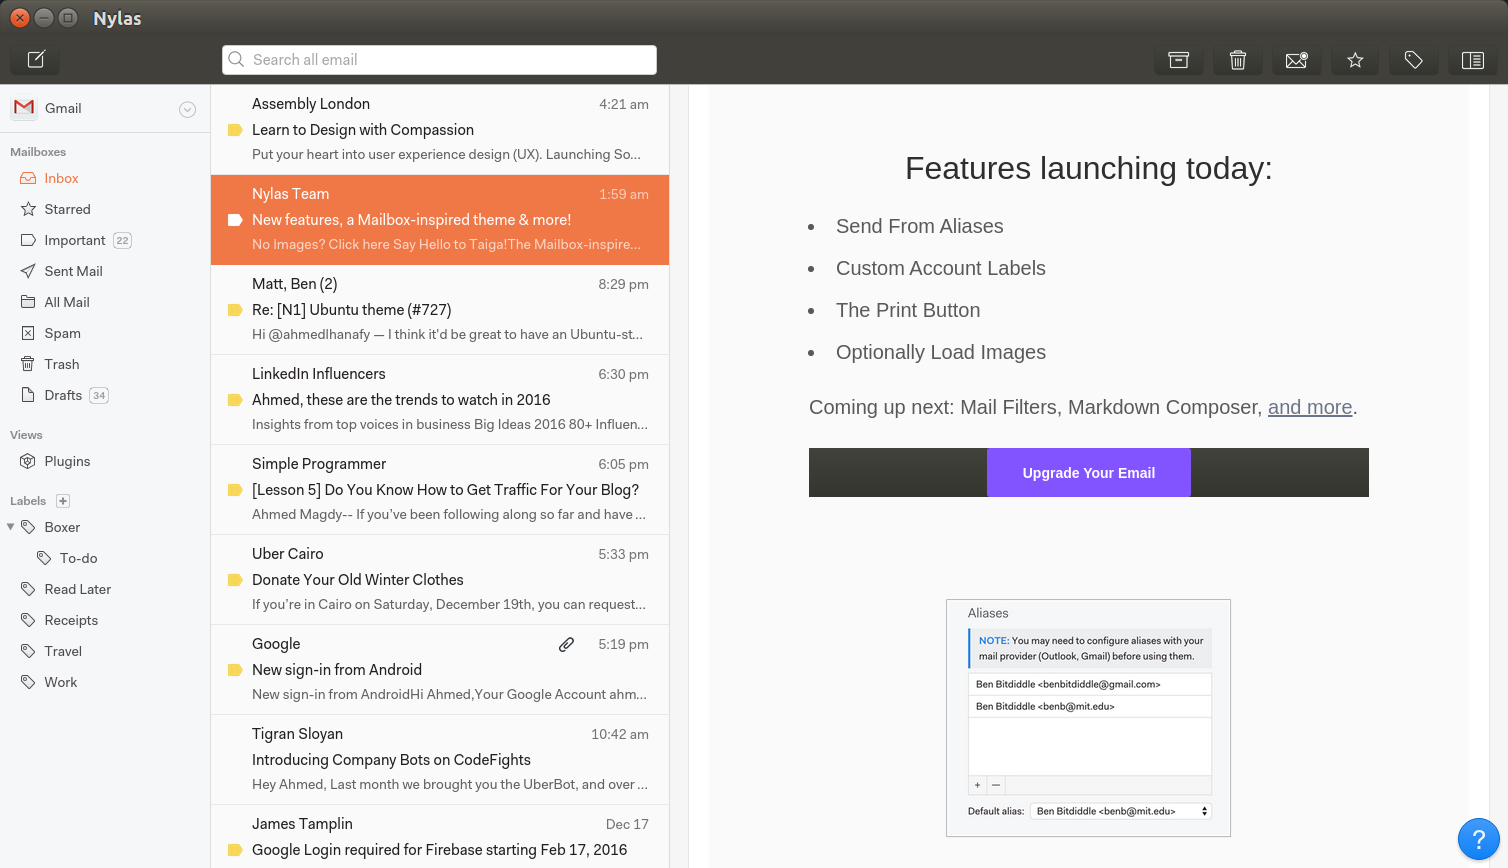
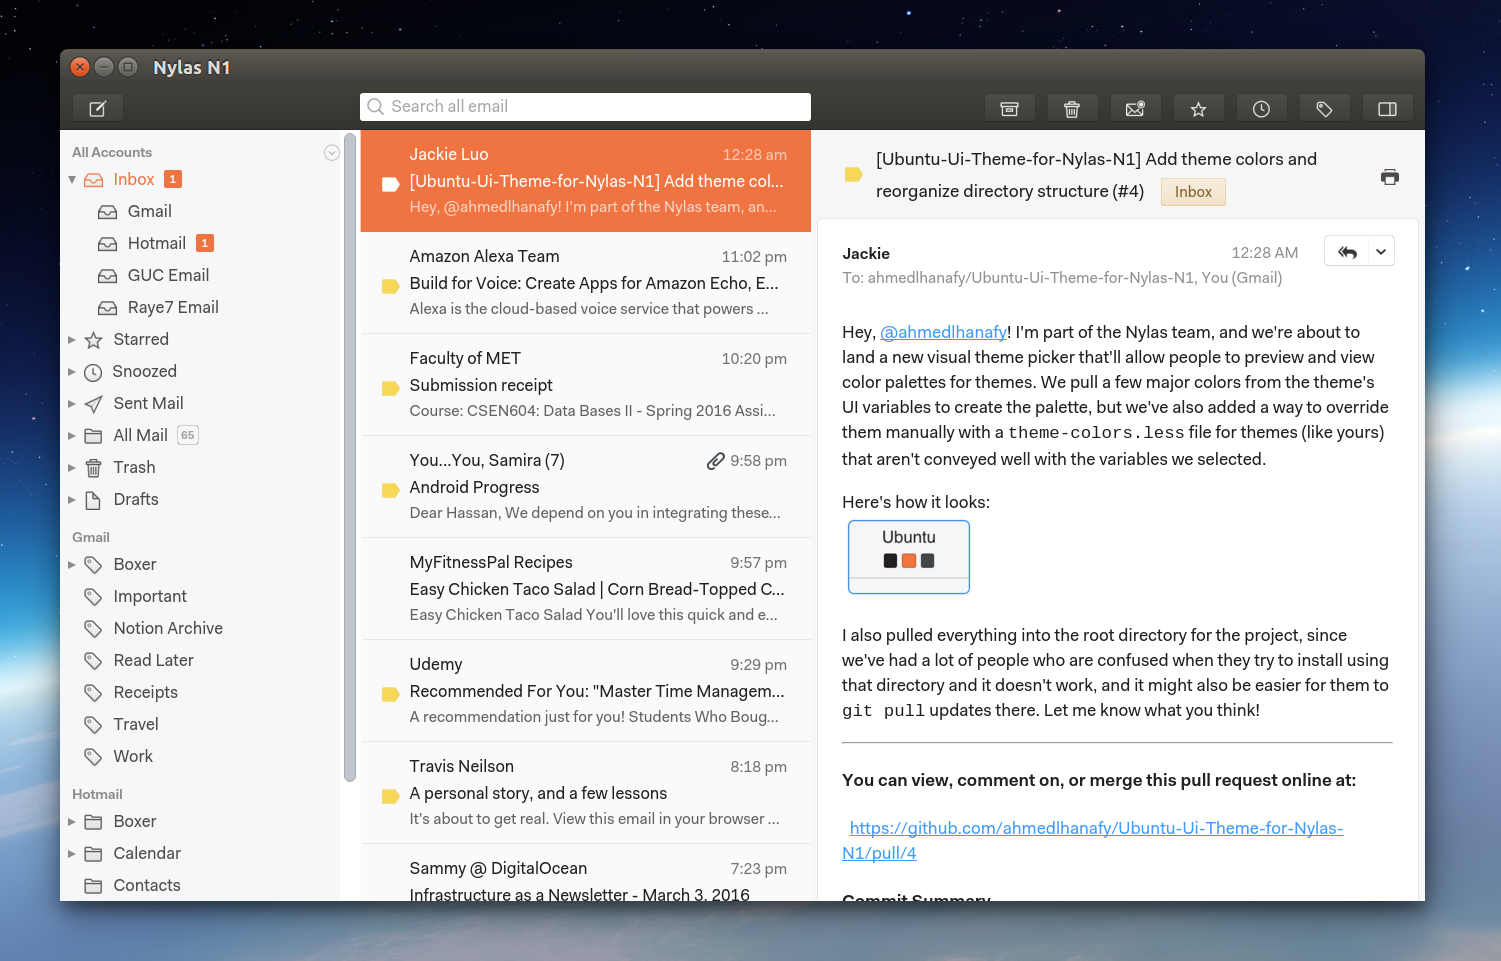
Added variables and new screenshot

diff --git a/styles/ui-variables.less b/styles/ui-variables.less
@@ -1,41 +1,41 @@
 
+//buttons color
+@btn-default-bg-color:      lighten(@toolbar-background-color,4%);
+
+// dropdowns color
+@dropdown-default-bg-color:#f07746;
+
+@accent-primary:            #f07746;
+@accent-primary-dark:       darken(#f07746, 1%);
+
+@border-secondary-bg:   lighten(@background-secondary, 10%);
+
+// @border-tertiary-bg:    lighten(@background-tertiary, 10%);
+// @border-color-divider:  @border-secondary-bg;
+
+//input bg like search in main window
+// @input-bg:              darken(@background-secondary,20%);
+// @input-border:          @border-color-divider;
+
+//main list background
+// @list-bg:               #FF1E00;
+// @list-border:           #383838;
+
+// @list-selected-color:   @text-color-inverse;
+
+@toolbar-background-color: #41403b;
+
+
+.sheet-toolbar .btn-toolbar img.content-mask {
+    background-color: rgb(246, 246, 246);
+}
+
+.layout-mode-popout .sheet-toolbar {
+display: none;
+}
+
 .sheet-toolbar-container {
-  background-image: -webkit-linear-gradient(top, #41403b, #41403b);
-  box-shadow: none;
-  color: #434648;
-}
-.btn {
-  background: -webkit-gradient(linear, left top, left bottom, from(rgb(66, 66, 61)), to(#353530));
-}
-.btn img.content-mask {
-  background-color: #FFFFFF;
-}
-.list-container .list-item.focused {
-  background: #f07746;
-}
-.list-container .list-item.focused .list-column {
-  border-bottom: 1px solid #f07746;
-}
-#account-switcher .item.selected,
-#account-sidebar .item.selected {
-  color: #f07746;
-}
-#account-switcher .item.selected img.content-mask,
-#account-sidebar .item.selected img.content-mask {
-  background-color: #f07746;
-}
-.sheet-toolbar .item-back img.content-mask {
-  background-color: #F1F1F1;
-}
-.sheet-toolbar .item-back .item-back-title {
-  color: #E6E6E6;
-}
-.preferences-wrap .preferences-sidebar .item.active:not(.has-subitems) .name {
-  color: #f07746;
-}
-.preferences-wrap .preferences-sidebar .item.active:not(.has-subitems) {
-  border-right: 3px solid #f07746;
-}
-.mode-toggle.mode-false .content-mask {
-    background-color: #f07746;
+  background-image: -webkit-linear-gradient(top,@toolbar-background-color, darken(@toolbar-background-color,5%));
+    box-shadow: none;
+
 }

diff --git a/styles/theme-colors.less b/styles/theme-colors.less
@@ -1,2 +1,2 @@
 @component-active-color: #f07746;
-@toolbar-background-color: #434648;
+@toolbar-background-color: #41403b;

diff --git a/README.md b/README.md
@@ -1,6 +1,6 @@
 ##This is a very early version of Ubuntu theme for Nylas N1.
 ![img]
-(https://raw.githubusercontent.com/ahmedlhanafy/Ubuntu-Ui-Theme-for-Nylas-N1/master/Screenshot.png)
+(https://cloud.githubusercontent.com/assets/7052827/13513639/232fbab0-e1ab-11e5-9c92-f6159fc8e3b4.png)
 
 ## Installation:
 * Download the zip folder and extract it.
